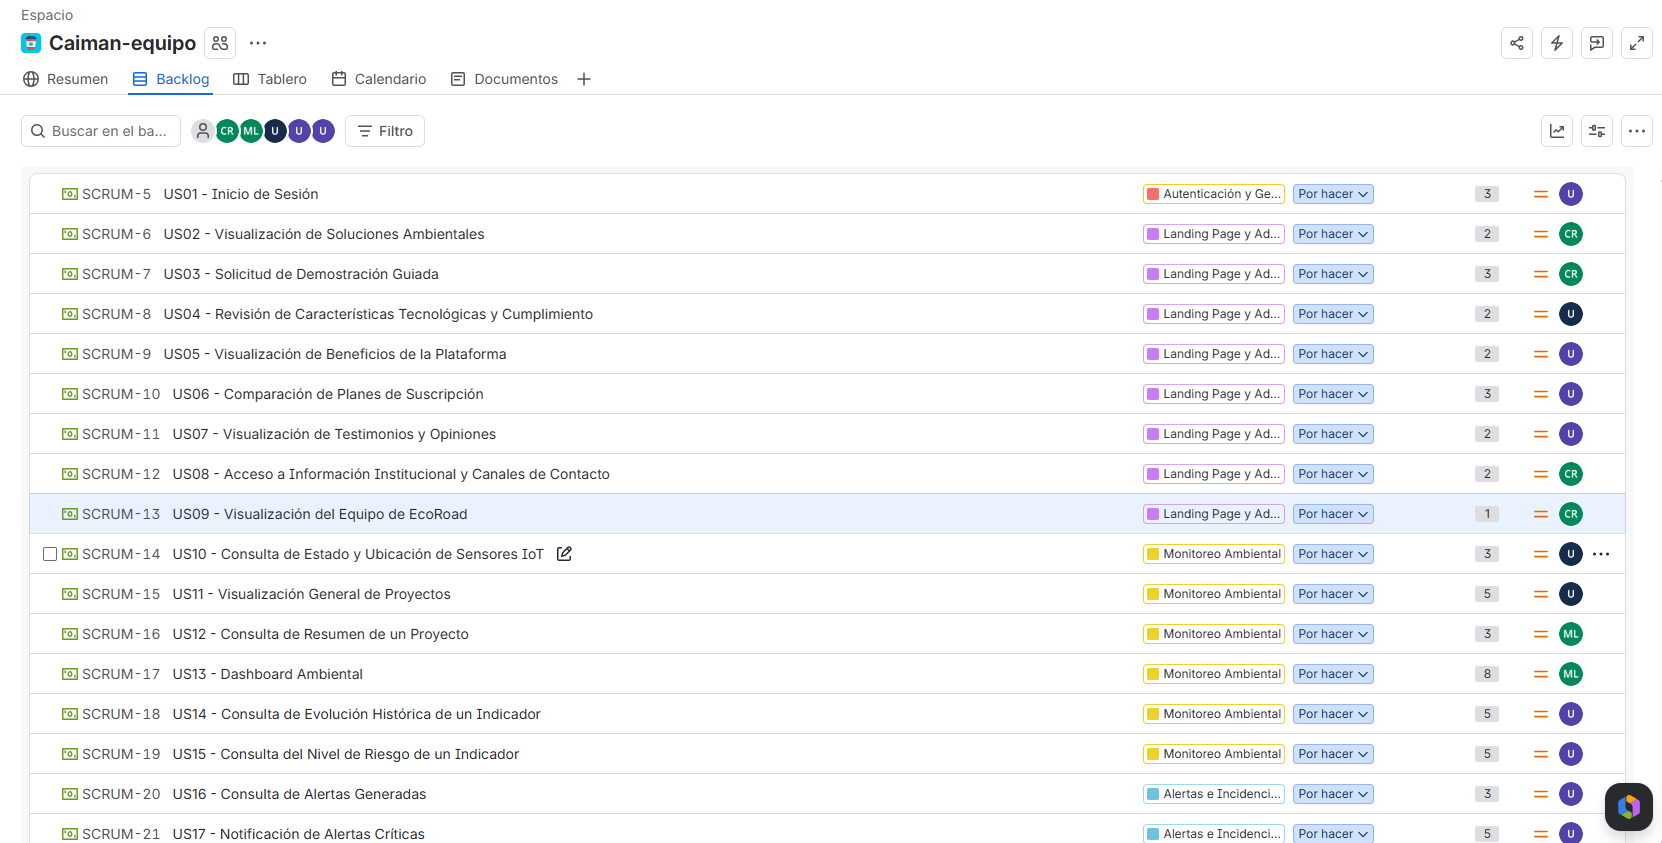
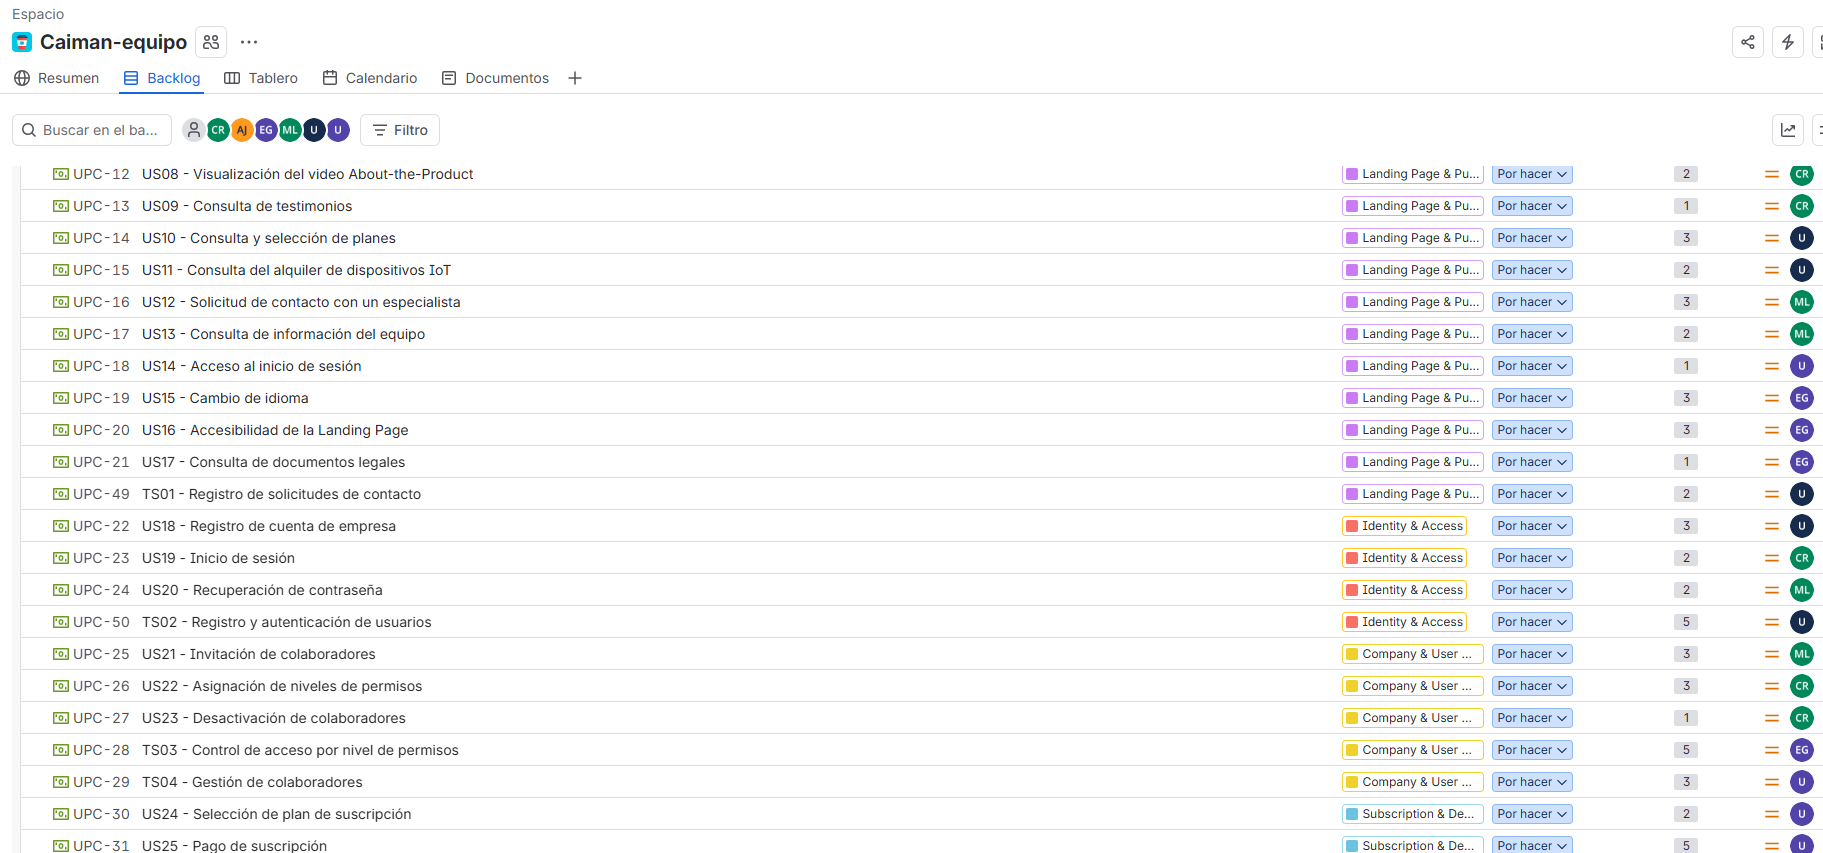
docs(chapter-3): update about Product Backlog in Jira and add new link

diff --git a/docs/Chapter-3.md b/docs/Chapter-3.md
@@ -192,5 +192,4 @@ A continuación, se muestra la gestión del backlog en la herramienta Jira Softw
 ![Evidence Product Backlog Jira](../assets/Chapter-3/product-backlog.png)
 *Figura: Captura del Product Backlog en Jira Software.*
 
-**Enlace al Product Backlog en Jira:** [click aquí](https://upc-team-opensource.atlassian.net/jira/software/projects/SCRUM/boards/1/backlog?atlOrigin=eyJpIjoiMDEwNTZjOGUxMWU5NGYyMzkxYmQwMmUwMzM4ZjZkMDQiLCJwIjoiaiJ9)
-
+**Enlace al Product Backlog en Jira:** [click aquí](https://upc-team-opensource.atlassian.net/jira/software/projects/UPC/boards/1/backlog?epics=visible&atlOrigin=eyJpIjoiODQzYTA2NTEyMDM5NDE5ZGE5NGE3NmUzMDNiYTJmODYiLCJwIjoiaiJ9)
